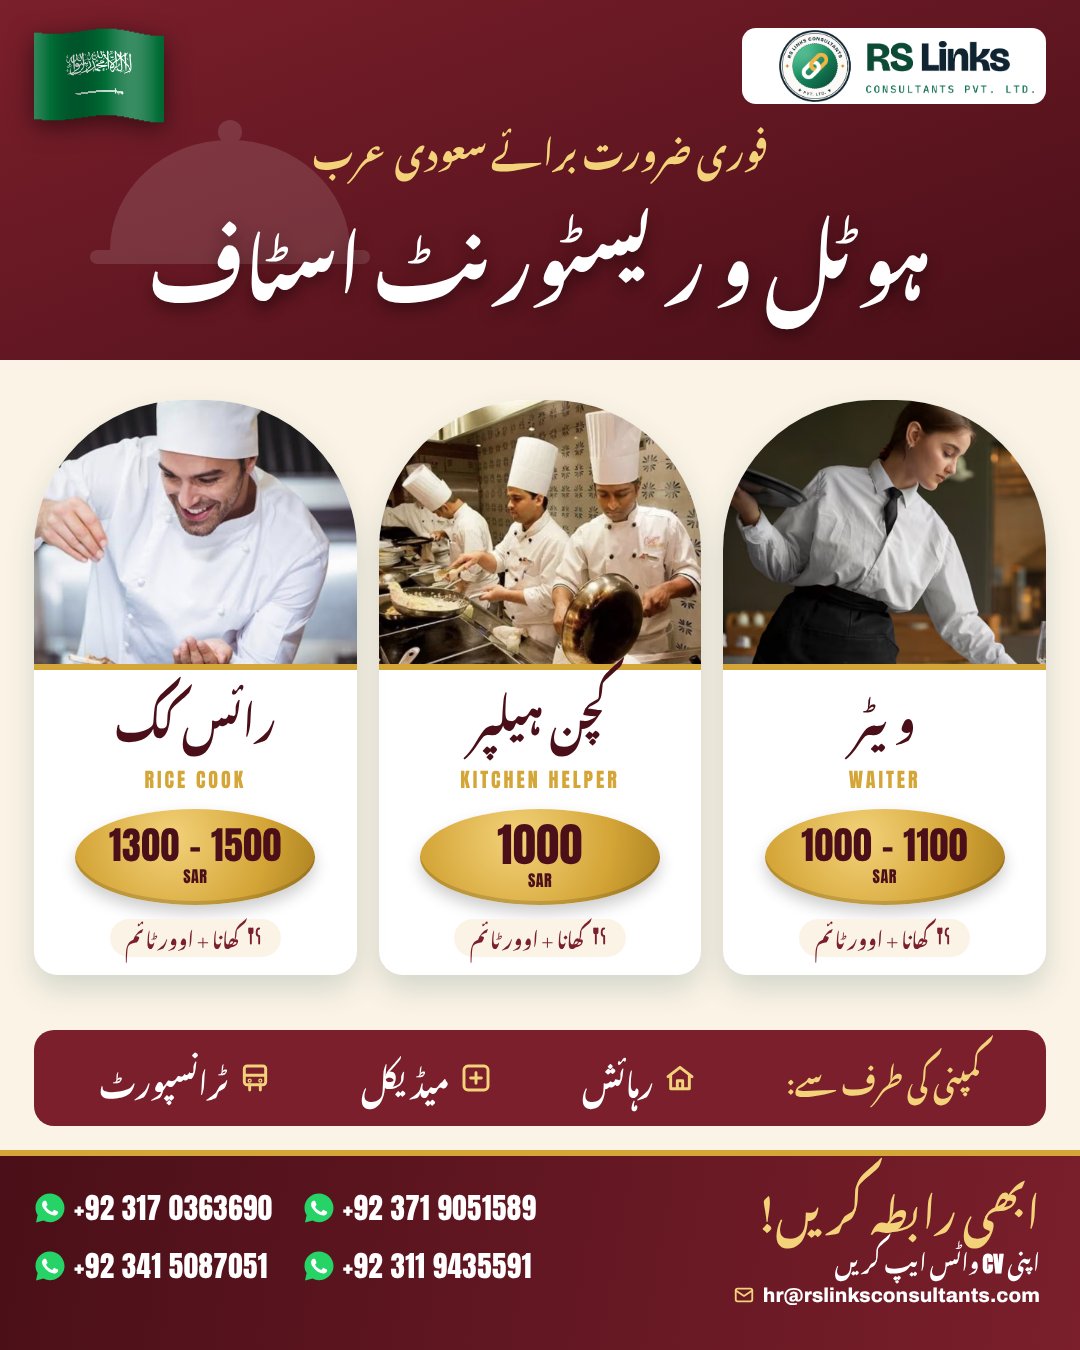
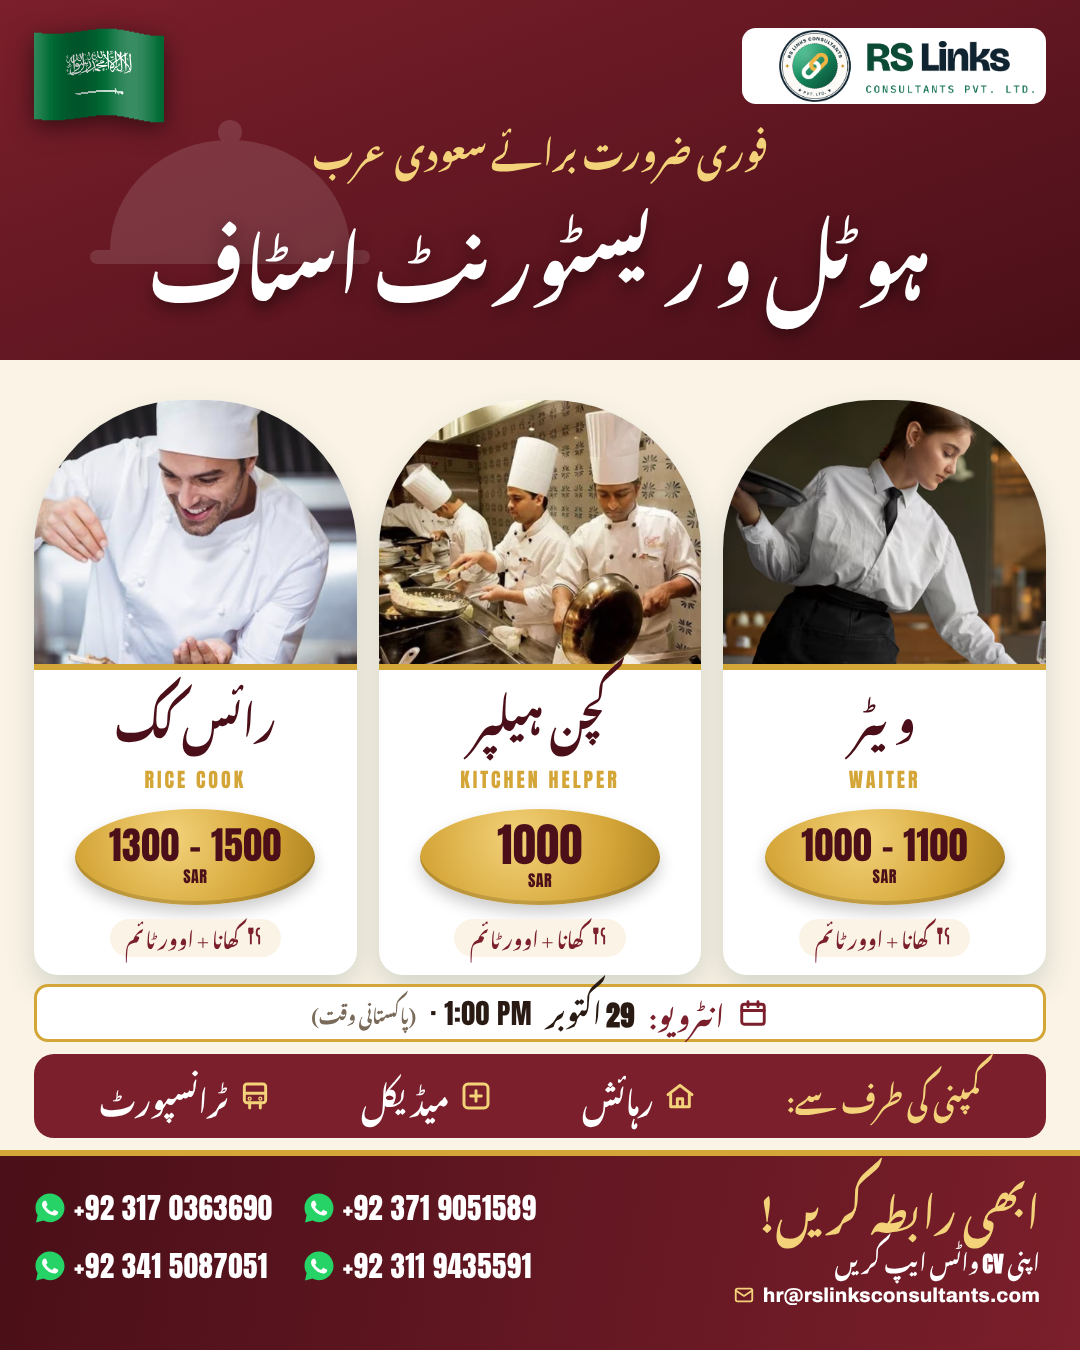
Hospitality ads: add interview date 29 October 1 PM
Claude-Session: https://claude.ai/code/session_01YJ5ofgU8QCiWTsYR9pvXG4

Changed region(s): [[0.0306, 0.7156, 0.9778, 0.84]]

diff --git a/src/saudi_hospitality.py b/src/saudi_hospitality.py
@@ -28,7 +28,7 @@ def build():
         for i, (f, pos, t, sub, sal) in enumerate(JOBS))
     perks = [("home", "Accommodation"), ("medical", "Medical"), ("bus", "Transport")]
     perk = "".join(f"<div style='flex:1;display:flex;align-items:center;justify-content:center;gap:12px;{'border-left:2px solid #ffffff33;' if i else ''}'>"
-                   f"{icon(ic, 34, GOLD2, 2.2)}<div><div style='font:400 26px Anton;color:#fff;letter-spacing:1px'>{a.upper()}</div><div style='font:600 15px Archivo;color:#CFC6B8'>by company</div></div></div>" for i, (ic, a) in enumerate(perks))
+                   f"{icon(ic, 34, GOLD2, 2.2)}<div style='font:400 24px Anton;color:#fff;letter-spacing:1px'>{a.upper()} <span style='font:600 15px Archivo;color:#CFC6B8;letter-spacing:0'>by company</span></div></div>" for i, (ic, a) in enumerate(perks))
     nums = "".join(f"<div style='display:flex;align-items:center;gap:8px'>{whatsapp_icon(32)}<span style='font:400 28px Anton;color:{INK};letter-spacing:.5px'>{n}</span></div>" for n in PHONES)
     body = f"""
 <div class='abs' style='top:0;left:0;width:1080px;height:330px;background:{CHAR}'></div>
@@ -45,7 +45,9 @@ def build():
 <div class='abs' style='top:330px;left:0;width:1080px;height:14px;background:repeating-linear-gradient(90deg,{GOLD} 0 24px,{CHAR} 24px 30px)'></div>
 
 <div class='abs' style='top:368px;left:50px;right:50px'>{rows}</div>
-<div class='abs' style='top:1006px;left:50px;right:50px;height:118px;border-radius:20px;background:{GRN};display:flex;align-items:center'>{perk}</div>
+<div class='abs' style='top:994px;left:50px;right:50px;height:58px;border-radius:14px;background:#fff;border:3px solid {GOLD};display:flex;align-items:center;justify-content:center;gap:14px'>
+ {icon('calendar', 30, GRN, 2.3)}<span style='font:400 30px Anton;color:{CHAR};letter-spacing:1px'>INTERVIEW: 29 OCTOBER · 1:00 PM</span><span style='font:600 16px Archivo;color:#6E6255'>(Pakistan time)</span></div>
+<div class='abs' style='top:1064px;left:50px;right:50px;height:74px;border-radius:18px;background:{GRN};display:flex;align-items:center'>{perk}</div>
 
 <div class='abs' style='top:1150px;left:0;width:1080px;height:200px;background:{CHAR};border-top:6px solid {GOLD}'></div>
 <div class='abs' style='top:1176px;left:30px;width:600px;height:150px;background:{PAPER};border-radius:18px;display:grid;grid-template-columns:1fr 1fr;align-content:center;gap:12px;padding:0 18px;box-sizing:border-box'>{nums}</div>

diff --git a/src/saudi_hospitality_ur.py b/src/saudi_hospitality_ur.py
@@ -40,7 +40,9 @@ def build():
 
 <div class='abs' style='top:400px;left:34px;right:34px;display:grid;grid-template-columns:repeat(3,1fr);gap:22px'>{cols}</div>
 
-<div class='abs' style='top:1030px;left:34px;right:34px;height:96px;background:{TEAL};border-radius:20px;display:flex;align-items:center;justify-content:space-around;padding:0 20px'>
+<div class='abs' style='top:984px;left:34px;right:34px;height:58px;border-radius:14px;background:#fff;border:3px solid {GOLD};display:flex;align-items:center;justify-content:center;gap:14px'>
+ {icon('calendar', 30, TEAL, 2.3)}{T('انٹرویو:', 28, TEAL, 'font-weight:700', 1.7)}{T(f"{N(29)} اکتوبر", 28, INK, 'font-weight:700', 1.7)}<span class='num' style='font-size:28px;color:{INK}'>· 1:00 PM</span>{T('(پاکستانی وقت)', 18, '#7A6A5A', 'font-weight:700', 1.7)}</div>
+<div class='abs' style='top:1054px;left:34px;right:34px;height:84px;background:{TEAL};border-radius:20px;display:flex;align-items:center;justify-content:space-around;padding:0 20px'>
  {T('کمپنی کی طرف سے:', 28, GOLD2, 'font-weight:700', 1.7)}{perk}</div>
 
 <div class='abs' style='top:1150px;left:0;width:1080px;height:200px;background:linear-gradient(100deg,{TEAL2},{TEAL})'></div>

diff --git a/demands/2026-10-27-saudi-hospitality/facts.md b/demands/2026-10-27-saudi-hospitality/facts.md
@@ -4,3 +4,4 @@ Source: Subcontinental Manpower Services ad forwarded by Rahim (ref.png) — con
 - Accommodation, medical, transport by company
 Dropped: interview date/time (Oct 29, 1 PM — user prefers no interview dates), "Good salary, stable jobs, better future", other agency branding/number.
 Photos: 3 staff photos cropped from the ad (sa_waiter / sa_kitchen_helper / sa_rice_cook) — user asked to convert this ad.
+- Interview: 29 October, 1:00 PM Pakistan time — added back at user request (2026-10-27).
